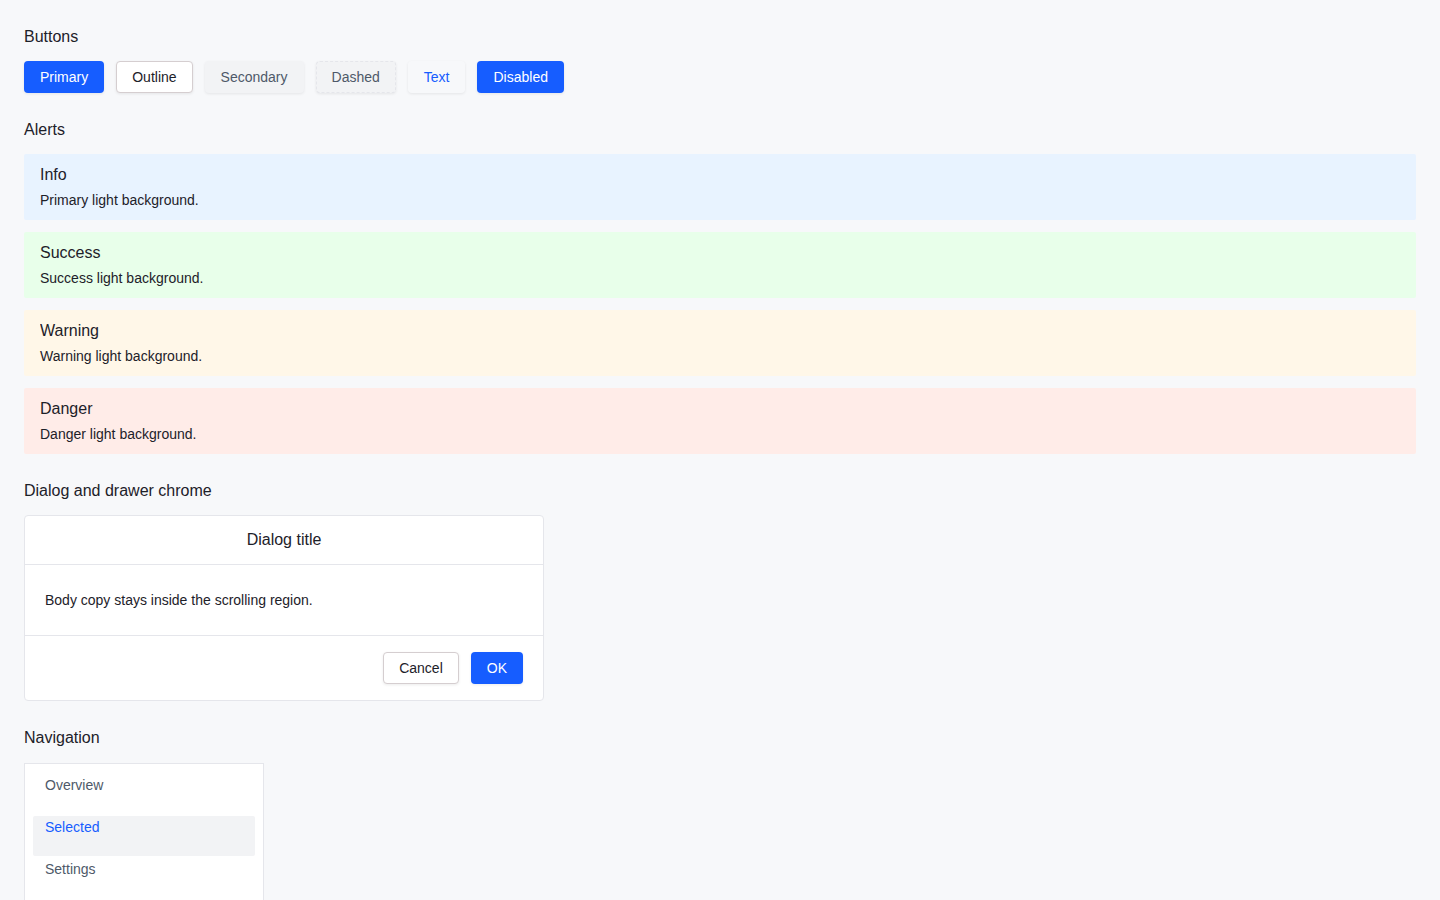
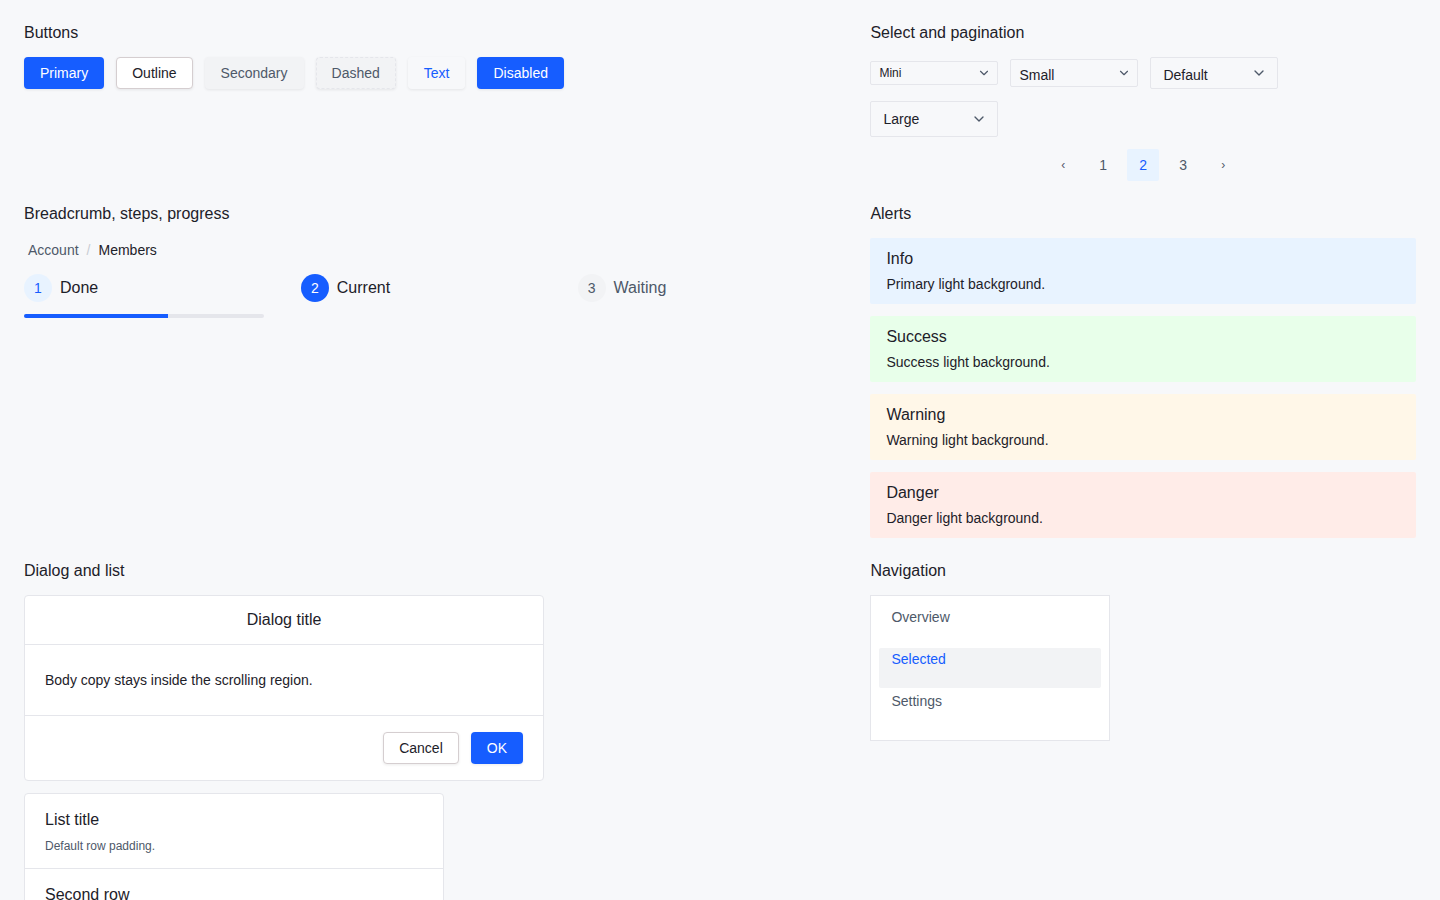
feat(ui): align pagination, list, progress, and upload contracts

diff --git a/packages/ui/src/app.css b/packages/ui/src/app.css
@@ -1340,7 +1340,7 @@ h6,
 }
 
 [data-slot="tooltip-content"] {
-  /* 官方气泡：14px、左右 12px、上下 8px，单行正好 38px。mini 上下 4px，单行 30px。 */
+  /* Official tooltip: 14px type, 12px horizontal padding, 8px vertical padding. One line is 38px. Mini uses 4px vertical padding and a 30px line. */
   animation: svadmin-tooltip-enter 120ms ease-out;
   box-sizing: border-box;
   min-height: 38px;
@@ -2079,8 +2079,8 @@ main {
   overflow: hidden; clip: rect(0, 0, 0, 0); white-space: nowrap; border: 0;
 }
 
-.svadmin-result { display: grid; justify-items: center; gap: 0.5rem; padding: 32px 32px 24px; text-align: center; }
-.svadmin-result__icon { display: flex; align-items: center; justify-content: center; margin-bottom: 4px; color: var(--primary); }
+.svadmin-result { display: grid; justify-items: center; gap: 0; padding: 32px 32px 24px; text-align: center; }
+.svadmin-result__icon { display: flex; align-items: center; justify-content: center; margin-bottom: 16px; color: var(--primary); }
 .svadmin-result[data-status="success"] .svadmin-result__icon { color: var(--success); }
 .svadmin-result[data-status="warning"] .svadmin-result__icon { color: var(--warning); }
 .svadmin-result[data-status="error"] .svadmin-result__icon,
@@ -2110,9 +2110,10 @@ main {
   background: var(--card); color: var(--foreground);
 }
 .svadmin-item-list { margin: 0; padding: 0; list-style: none; border: 1px solid var(--border); border-radius: var(--radius); background: var(--card); }
-.svadmin-item-list__item { padding: 0.75rem 1rem; border-bottom: 1px solid var(--border); }
+/* Official default list row: 13px 20px. The header title is 16px / 500. */
+.svadmin-item-list__item { padding: 13px 20px; border-bottom: 1px solid var(--border); }
 .svadmin-item-list__item:last-child { border-bottom: 0; }
-.svadmin-item-list__title { margin: 0; color: var(--foreground); font-size: 0.875rem; font-weight: 500; }
+.svadmin-item-list__title { margin: 0; color: var(--foreground); font-size: var(--svadmin-text-section); font-weight: 500; }
 .svadmin-item-list__description { margin: 0.25rem 0 0; color: var(--muted-foreground); font-size: 0.75rem; }
 
 .svadmin-tree-root, .svadmin-tree { margin: 0; padding: 0; list-style: none; }
@@ -2190,10 +2191,10 @@ main {
 .svadmin-progress {
   position: relative;
   width: 100%;
-  height: 0.5rem;
+  /* Official line stroke defaults to 4px. The track is fill-3. */
+  height: 4px;
   overflow: hidden;
   border-radius: 999px;
-  /* Official progress track is fill-3, not a light primary wash. */
   background: var(--svadmin-fill-3, var(--border));
 }
 
@@ -2328,12 +2329,16 @@ main {
 }
 
 .svadmin-breadcrumb-link:hover {
-  color: var(--foreground);
+  /* Official breadcrumb link hover: fill-2 background, link color, no underline. */
+  border-radius: 2px;
+  background: var(--svadmin-fill-2, var(--muted));
+  color: var(--link-6, var(--primary));
 }
 
 .svadmin-breadcrumb-page {
+  /* Official last crumb is text-1 at weight 500. */
   color: var(--foreground);
-  font-weight: 400;
+  font-weight: 500;
 }
 
 .svadmin-breadcrumb-separator {
@@ -2530,9 +2535,10 @@ main {
 
 .svadmin-select[data-size="small"],
 .svadmin-select[data-size="compact"] {
+  /* Official .arco-select-size-small.arco-select-single .arco-select-view is 28px / 14px. */
   height: var(--svadmin-control-h-sm);
   padding: 0.25rem 1.75rem 0.25rem 0.5rem;
-  font-size: 0.8125rem;
+  font-size: var(--svadmin-text-body);
   background-position: right 0.375rem center;
   background-size: 0.875rem 0.875rem;
 }
@@ -3451,6 +3457,47 @@ main {
   height: var(--svadmin-space-4);
 }
 
+/* Official .arco-pagination-item: 32px, borderless, 14px type. Active is primary-light-1. */
+:is([data-slot="pagination-link"], [data-slot="pagination-previous"], [data-slot="pagination-next"]).svadmin-pagination-item {
+  box-sizing: border-box;
+  width: 32px;
+  min-width: 32px;
+  height: 32px;
+  padding: 0;
+  border: 0 solid transparent;
+  border-radius: 2px;
+  background: transparent;
+  box-shadow: none;
+  color: var(--muted-foreground);
+  font-size: var(--svadmin-text-body);
+  font-weight: 400;
+  line-height: 32px;
+}
+:is([data-slot="pagination-previous"], [data-slot="pagination-next"]).svadmin-pagination-item {
+  font-size: 12px;
+}
+:is([data-slot="pagination-link"], [data-slot="pagination-previous"], [data-slot="pagination-next"]).svadmin-pagination-item:hover:not(:disabled) {
+  border-color: transparent;
+  background: var(--svadmin-fill-1, var(--muted));
+  color: var(--muted-foreground);
+}
+:is([data-slot="pagination-previous"], [data-slot="pagination-next"]).svadmin-pagination-item:hover:not(:disabled) {
+  color: var(--primary);
+}
+[data-slot="pagination-link"].svadmin-pagination-item[data-active="true"] {
+  background: var(--primary-light-1);
+  color: var(--primary);
+}
+:is([data-slot="pagination-link"], [data-slot="pagination-previous"], [data-slot="pagination-next"]).svadmin-pagination-item:disabled {
+  background: transparent;
+  color: var(--svadmin-text-4);
+  cursor: not-allowed;
+}
+:is([data-slot="pagination-link"], [data-slot="pagination-previous"], [data-slot="pagination-next"]).svadmin-pagination-item:focus-visible {
+  outline: var(--svadmin-focus-width) solid color-mix(in oklch, var(--ring) 48%, transparent);
+  outline-offset: var(--svadmin-focus-offset);
+}
+
 @keyframes svadmin-menu-enter {
   from {
     opacity: 0;
@@ -3487,10 +3534,6 @@ main {
   .svadmin-sheet-footer {
     flex-direction: row;
     justify-content: flex-end;
-  }
-
-  .svadmin-breadcrumb-list {
-    gap: 0.625rem;
   }
 
   .svadmin-dialog-content {

diff --git a/packages/ui/src/components/ui/progress/progress.svelte b/packages/ui/src/components/ui/progress/progress.svelte
@@ -10,7 +10,7 @@
     indeterminate = false,
     status = 'normal',
     size = 96,
-    strokeWidth = 8,
+    strokeWidth = 4,
     showInfo = false,
     format,
     class: className,
@@ -87,22 +87,22 @@
   .svadmin-progress {
     position: relative;
     width: 100%;
-    height: 0.5rem;
+    height: 4px;
     overflow: hidden;
     border-radius: 999px;
-    background: var(--muted);
+    background: var(--svadmin-fill-3, var(--border));
   }
   .svadmin-progress-value {
     width: 100%;
     height: 100%;
     border-radius: inherit;
     background: var(--primary);
-    transition: transform 160ms ease;
+    transition: transform 0.6s var(--svadmin-easing-standard, cubic-bezier(0.34, 0.69, 0.1, 1));
   }
   .svadmin-progress--with-info {
     display: flex;
     align-items: center;
-    gap: var(--svadmin-space-2);
+    gap: 16px;
     height: auto;
     overflow: visible;
     background: transparent;
@@ -110,10 +110,10 @@
   .svadmin-progress__line-track {
     flex: 1;
     min-width: 0;
-    height: 0.5rem;
+    height: 4px;
     overflow: hidden;
     border-radius: inherit;
-    background: var(--muted);
+    background: var(--svadmin-fill-3, var(--border));
   }
   .svadmin-progress[data-status='success'] .svadmin-progress-value { background: var(--success); }
   .svadmin-progress[data-status='warning'] .svadmin-progress-value { background: var(--warning); }
@@ -143,11 +143,11 @@
     fill: none;
     stroke-width: var(--svadmin-progress-stroke);
   }
-  .svadmin-progress__track { stroke: var(--muted); }
+  .svadmin-progress__track { stroke: var(--svadmin-fill-3, var(--border)); }
   .svadmin-progress__indicator {
     stroke: var(--primary);
     stroke-linecap: round;
-    transition: stroke-dashoffset 160ms ease;
+    transition: stroke-dashoffset 0.6s var(--svadmin-easing-standard, cubic-bezier(0.34, 0.69, 0.1, 1));
   }
   .svadmin-progress--circle[data-status='success'] .svadmin-progress__indicator { stroke: var(--success); }
   .svadmin-progress--circle[data-status='warning'] .svadmin-progress__indicator { stroke: var(--warning); }
@@ -155,9 +155,11 @@
   .svadmin-progress--circle[data-indeterminate='true'] svg { animation: svadmin-progress-spin 1.1s linear infinite; }
   .svadmin-progress__info {
     position: relative;
-    color: var(--foreground);
+    min-width: 32px;
+    color: var(--muted-foreground);
     font-size: var(--svadmin-text-caption);
     font-variant-numeric: tabular-nums;
+    text-align: end;
   }
   .svadmin-progress--circle .svadmin-progress__info { position: absolute; }
   @keyframes svadmin-progress-indeterminate {

diff --git a/packages/ui/src/visual-contract-remainder.test.ts b/packages/ui/src/visual-contract-remainder.test.ts
@@ -126,4 +126,29 @@ describe('Remaining visual style contract', () => {
     expect(css).toContain('min-height: 46px;');
     expect(css).toContain('gap: 8px;');
   });
+
+  it('matches the remaining official select, pagination, list, and progress metrics', () => {
+    const smallSelect = rule('.svadmin-select[data-size="small"]');
+    expect(smallSelect).toContain('height: var(--svadmin-control-h-sm)');
+    expect(smallSelect).toContain('font-size: var(--svadmin-text-body)');
+    expect(smallSelect).not.toContain('0.8125rem');
+    expect(rule('.svadmin-select[data-size="mini"]')).toContain('height: var(--svadmin-control-h-mini)');
+    expect(rule('.svadmin-select[data-size="large"]')).toContain('height: var(--svadmin-control-h-lg)');
+    expect(css).toContain('--svadmin-switch-width: 2.5rem;');
+    expect(css).toContain('--svadmin-switch-height: 1.5rem;');
+    expect(css).toContain('--svadmin-switch-width-sm: 1.75rem;');
+    expect(css).toContain('--svadmin-switch-height-sm: 1rem;');
+    const page = rule('[data-slot="pagination-link"].svadmin-pagination-item[data-active="true"]');
+    expect(page).toContain('background: var(--primary-light-1)');
+    expect(page).toContain('color: var(--primary)');
+    expect(rule(':is([data-slot="pagination-link"], [data-slot="pagination-previous"], [data-slot="pagination-next"]).svadmin-pagination-item')).toContain('border: 0 solid transparent');
+    expect(rule(':is([data-slot="pagination-link"], [data-slot="pagination-previous"], [data-slot="pagination-next"]).svadmin-pagination-item')).toContain('height: 32px');
+    expect(rule('.svadmin-breadcrumb-page')).toContain('font-weight: 500');
+    expect(css).not.toContain('.svadmin-breadcrumb-list {\n    gap: 0.625rem;');
+    expect(rule('.svadmin-item-list__item')).toContain('padding: 13px 20px');
+    expect(rule('.svadmin-item-list__title')).toContain('var(--svadmin-text-section)');
+    expect(rule('.svadmin-progress')).toContain('height: 4px');
+    expect(rule('.svadmin-result__icon')).toContain('margin-bottom: 16px');
+    expect(css).toContain('--svadmin-mask: rgb(29 33 41 / 60%);');
+  });
 });

diff --git a/packages/ui/src/components/FileUpload.svelte b/packages/ui/src/components/FileUpload.svelte
@@ -477,10 +477,12 @@
 
 <style>
   .svadmin-file-upload-input { position: absolute; width: 1px; height: 1px; overflow: hidden; clip: rect(0 0 0 0); }
-  .svadmin-file-upload-dropzone { display: flex; align-items: center; justify-content: center; gap: 8px; min-height: 88px; border: 1px dashed var(--border); border-radius: 6px; cursor: pointer; }
-  .svadmin-file-upload-dropzone[aria-disabled="true"] { cursor: not-allowed; opacity: 0.6; }
-  .svadmin-file-upload-list { display: grid; gap: 6px; margin: 8px 0 0; padding: 0; list-style: none; }
-  .svadmin-file-upload-list li { display: flex; align-items: center; gap: 8px; min-width: 0; }
+  /* Official drag trigger: 2px radius, dashed neutral border, fill-1, 50px vertical padding. */
+  .svadmin-file-upload-dropzone { display: flex; align-items: center; justify-content: center; gap: 8px; padding: 50px 0; border: 1px dashed var(--border); border-radius: 2px; background: var(--svadmin-fill-1, var(--muted)); color: var(--foreground); cursor: pointer; }
+  .svadmin-file-upload-dropzone:hover:not([aria-disabled="true"]) { border-color: var(--svadmin-text-3, var(--border)); background: var(--svadmin-fill-3, var(--muted)); }
+  .svadmin-file-upload-dropzone[aria-disabled="true"] { cursor: not-allowed; opacity: 1; border-color: var(--svadmin-text-4); background: var(--svadmin-fill-1, var(--muted)); color: var(--svadmin-text-4); }
+  .svadmin-file-upload-list { display: grid; gap: 12px; margin: 12px 0 0; padding: 0; list-style: none; }
+  .svadmin-file-upload-list li { display: flex; align-items: center; gap: 8px; min-width: 0; box-sizing: border-box; padding: 8px 10px 8px 12px; border-radius: 2px; background: var(--svadmin-fill-1, var(--muted)); font-size: var(--svadmin-text-body); }
   .svadmin-file-upload-name { overflow: hidden; text-overflow: ellipsis; white-space: nowrap; }
   .svadmin-file-upload-status { color: var(--muted-foreground); font-size: 0.875rem; }
 </style>

diff --git a/packages/ui/src/components/Steps.svelte b/packages/ui/src/components/Steps.svelte
@@ -115,9 +115,11 @@
   .svadmin-steps__item[data-status='process'] .svadmin-steps__indicator { background: var(--primary); color: var(--primary-foreground); }
   .svadmin-steps__item[data-status='error'] .svadmin-steps__indicator { background: var(--destructive); color: var(--destructive-foreground); }
   .svadmin-steps__text { display: grid; min-width: 0; gap: 0.15rem; }
-  .svadmin-steps__title { color: var(--foreground); font-size: var(--svadmin-text-section); font-weight: 500; }
-  .svadmin-steps__item[data-status='wait'] .svadmin-steps__title { color: var(--muted-foreground); font-weight: 500; }
-  .svadmin-steps__description { color: var(--muted-foreground); font-size: var(--svadmin-text-caption); }
+  /* Official step title is 16px. Only the active step is weight 500. */
+  .svadmin-steps__title { color: var(--foreground); font-size: var(--svadmin-text-section); font-weight: 400; line-height: 1.75; }
+  .svadmin-steps__item[data-status='process'] .svadmin-steps__title { font-weight: 500; }
+  .svadmin-steps__item[data-status='wait'] .svadmin-steps__title { color: var(--muted-foreground); font-weight: 400; }
+  .svadmin-steps__description { margin-top: 2px; color: var(--svadmin-text-3, var(--muted-foreground)); font-size: var(--svadmin-text-caption); }
   .svadmin-steps__connector {
     position: relative;
     flex: 1;

diff --git a/packages/ui/src/components/ui/pagination/pagination-previous.svelte b/packages/ui/src/components/ui/pagination/pagination-previous.svelte
@@ -2,19 +2,16 @@
   import { cn } from '../../../utils.js';
   import type { Snippet } from 'svelte';
   import type { HTMLButtonAttributes } from 'svelte/elements';
-  import { buttonVariants } from '../button/index.js';
   import { ChevronLeft } from '@lucide/svelte';
 
   let { class: className, children, ...restProps }: HTMLButtonAttributes & { children?: Snippet } = $props();
 </script>
 
 <button
+  type="button"
   aria-label="Go to previous page"
-  data-svadmin-button
-  data-variant="ghost"
-  data-size="icon-sm"
   data-slot="pagination-previous"
-  class={cn(buttonVariants({ variant: 'ghost', size: 'icon-sm' }), "svadmin-pagination-control", className)}
+  class={cn('svadmin-pagination-item svadmin-pagination-control', className)}
   {...restProps}
 >
   {#if children}

diff --git a/packages/ui/src/components/ui/pagination/pagination-next.svelte b/packages/ui/src/components/ui/pagination/pagination-next.svelte
@@ -2,19 +2,16 @@
   import { cn } from '../../../utils.js';
   import type { Snippet } from 'svelte';
   import type { HTMLButtonAttributes } from 'svelte/elements';
-  import { buttonVariants } from '../button/index.js';
   import { ChevronRight } from '@lucide/svelte';
 
   let { class: className, children, ...restProps }: HTMLButtonAttributes & { children?: Snippet } = $props();
 </script>
 
 <button
+  type="button"
   aria-label="Go to next page"
-  data-svadmin-button
-  data-variant="ghost"
-  data-size="icon-sm"
   data-slot="pagination-next"
-  class={cn(buttonVariants({ variant: 'ghost', size: 'icon-sm' }), "svadmin-pagination-control", className)}
+  class={cn('svadmin-pagination-item svadmin-pagination-control', className)}
   {...restProps}
 >
   {#if children}

diff --git a/packages/ui/src/components/ui/pagination/pagination-link.svelte b/packages/ui/src/components/ui/pagination/pagination-link.svelte
@@ -2,7 +2,6 @@
   import { cn } from '../../../utils.js';
   import type { Snippet } from 'svelte';
   import type { HTMLButtonAttributes } from 'svelte/elements';
-  import { buttonVariants } from '../button/index.js';
 
   let {
     class: className,
@@ -13,16 +12,11 @@
 </script>
 
 <button
+  type="button"
   aria-current={isActive ? 'page' : undefined}
-  data-svadmin-button
-  data-variant={isActive ? 'outline' : 'ghost'}
-  data-size="icon-sm"
   data-slot="pagination-link"
   data-active={isActive}
-  class={cn(
-    buttonVariants({ variant: isActive ? 'outline' : 'ghost', size: 'icon-sm' }),
-    className
-  )}
+  class={cn('svadmin-pagination-item', className)}
   {...restProps}
 >
   {@render children?.()}

diff --git a/packages/ui/src/page-chrome.css b/packages/ui/src/page-chrome.css
@@ -59,7 +59,8 @@
     color: var(--foreground);
     font-size: var(--svadmin-text-title);
     font-weight: 600;
-    line-height: var(--svadmin-leading-tight);
+    /* Official page-header head line-height is 28px on the 20px title (1.4). */
+    line-height: 1.4;
     overflow-wrap: anywhere;
   }
   .svadmin-page-header__description {

diff --git a/docs/pr-evidence/pr828/README.md b/docs/pr-evidence/pr828/README.md
@@ -1,6 +1,6 @@
 # PR 828 visual evidence
 
-Default-skin fixture for the visual contract pass.
+Default-skin rest fixture for the visual contract pass. Hover and press are not captured.
 
-- `1440x900.png`: buttons, alert light fills, dialog chrome, and selected sidebar item at 1440x900.
-- `1920x1080.png`: the same surfaces at 1920x1080.
+- `1440x900.png`: buttons, select sizes, borderless pagination with the current page on primary-light, breadcrumb, steps, progress, alerts, dialog chrome, list rows, and the selected sidebar item at 1440x900.
+- `1920x1080.png`: the same surfaces at 1920x1080, plus the upload drop area.
